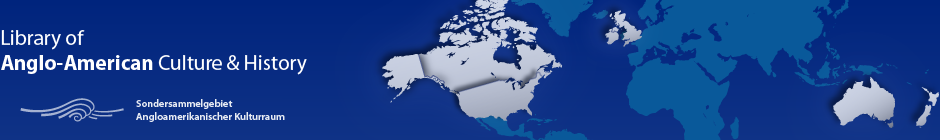
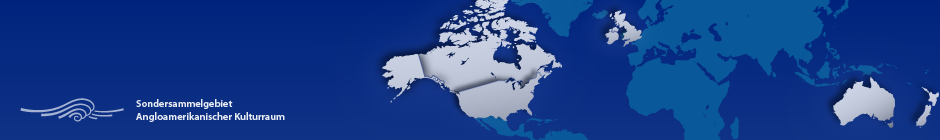
improve page headers
* two graphics: background and text
* only load new text when switching to the guides
* no flickering, less data to transfer

Changed region(s): [[0.0, 0.4, 0.3394, 0.5429], [0.0, 0.2, 0.0926, 0.3429]]

diff --git a/fileadmin/AAC/aac.css b/fileadmin/AAC/aac.css
@@ -116,6 +116,23 @@ h1, h2, h3 {
 
 h1 {
 	font-size: 1.786em; /*=25px*/
+	position: absolute;
+	top: 0px;
+	left: 0px;
+	height: 76px;
+	width: 308px;
+	padding: 0px;
+	background: transparent url(header_titles.png) 0px 0px no-repeat;
+}
+
+body.historyguide h1 {
+	background-position: 0px -77px;
+	width: 263px;
+}
+
+body.literatureguide h1 {
+	background-position: 0px -154px;
+	width: 263px;
 }
 
 h2 {
@@ -211,14 +228,6 @@ visible when they're tabbed to.
 	height: 140px;
 	background: #eaecf4 url(header.png) no-repeat;
 	text-indent: -9999em;
-}
-
-body.historyguide #head {
-	background-image: url(header_history_guide.png);
-}
-
-body.literatureguide #head {
-	background-image: url(header_literature_guide.png);
 }
 
 #head a {
